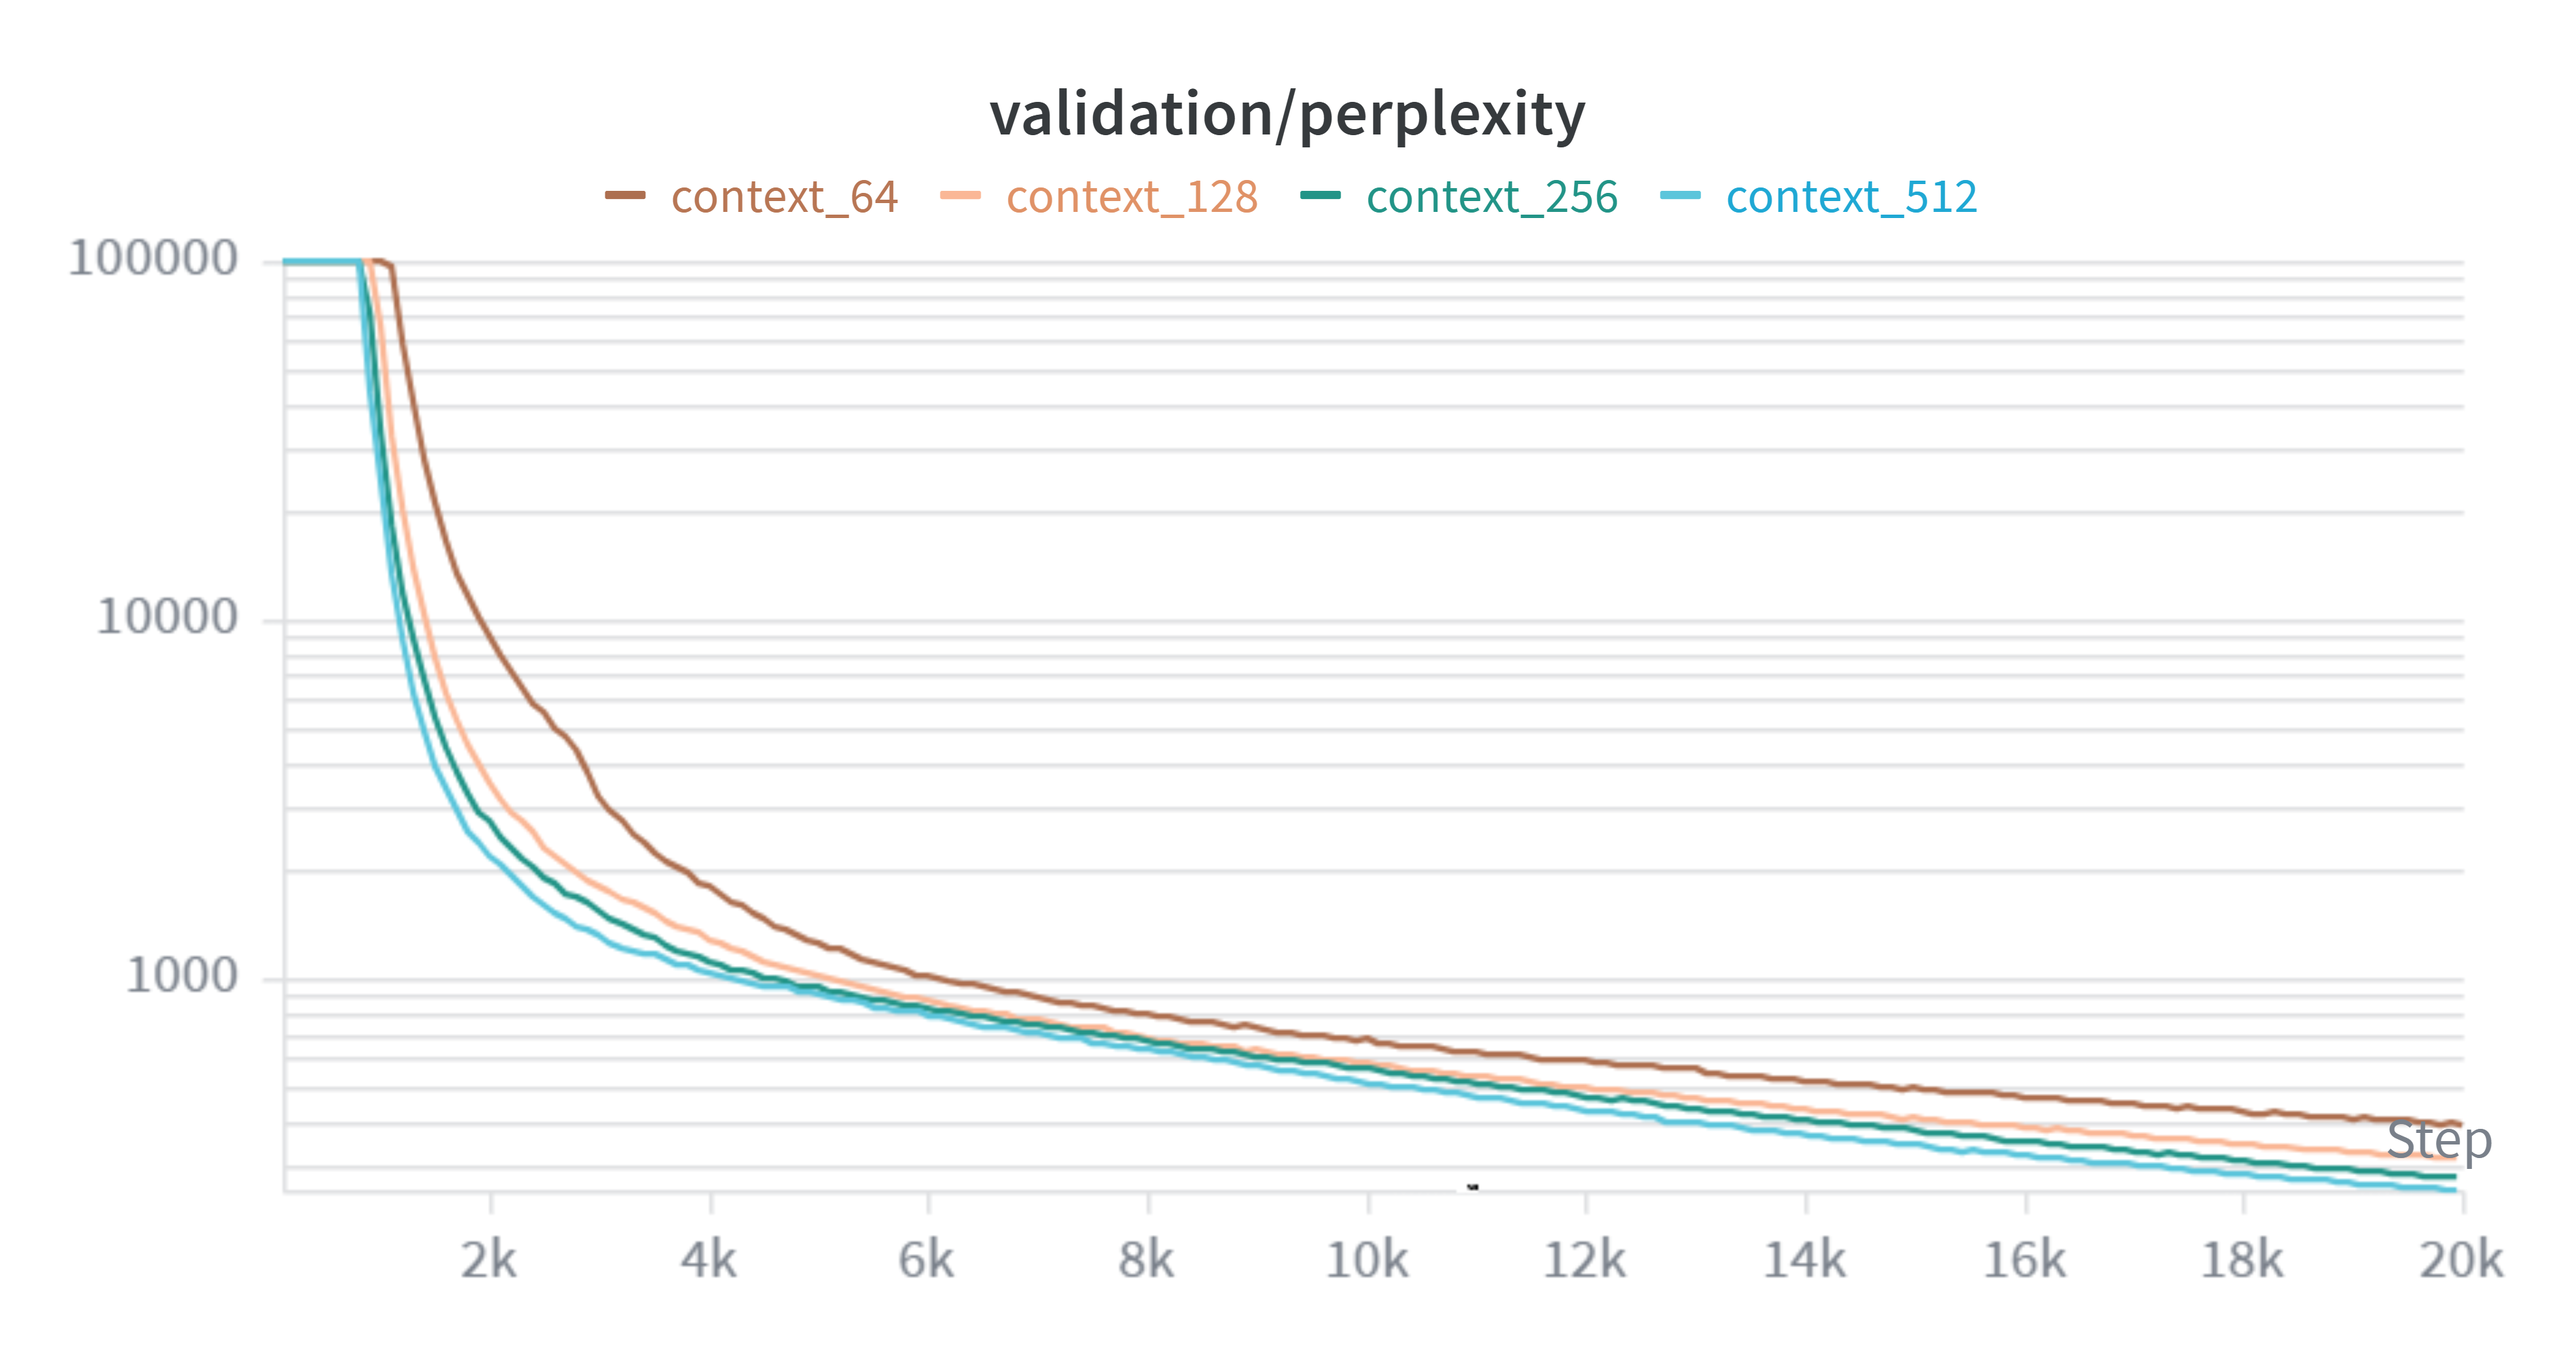
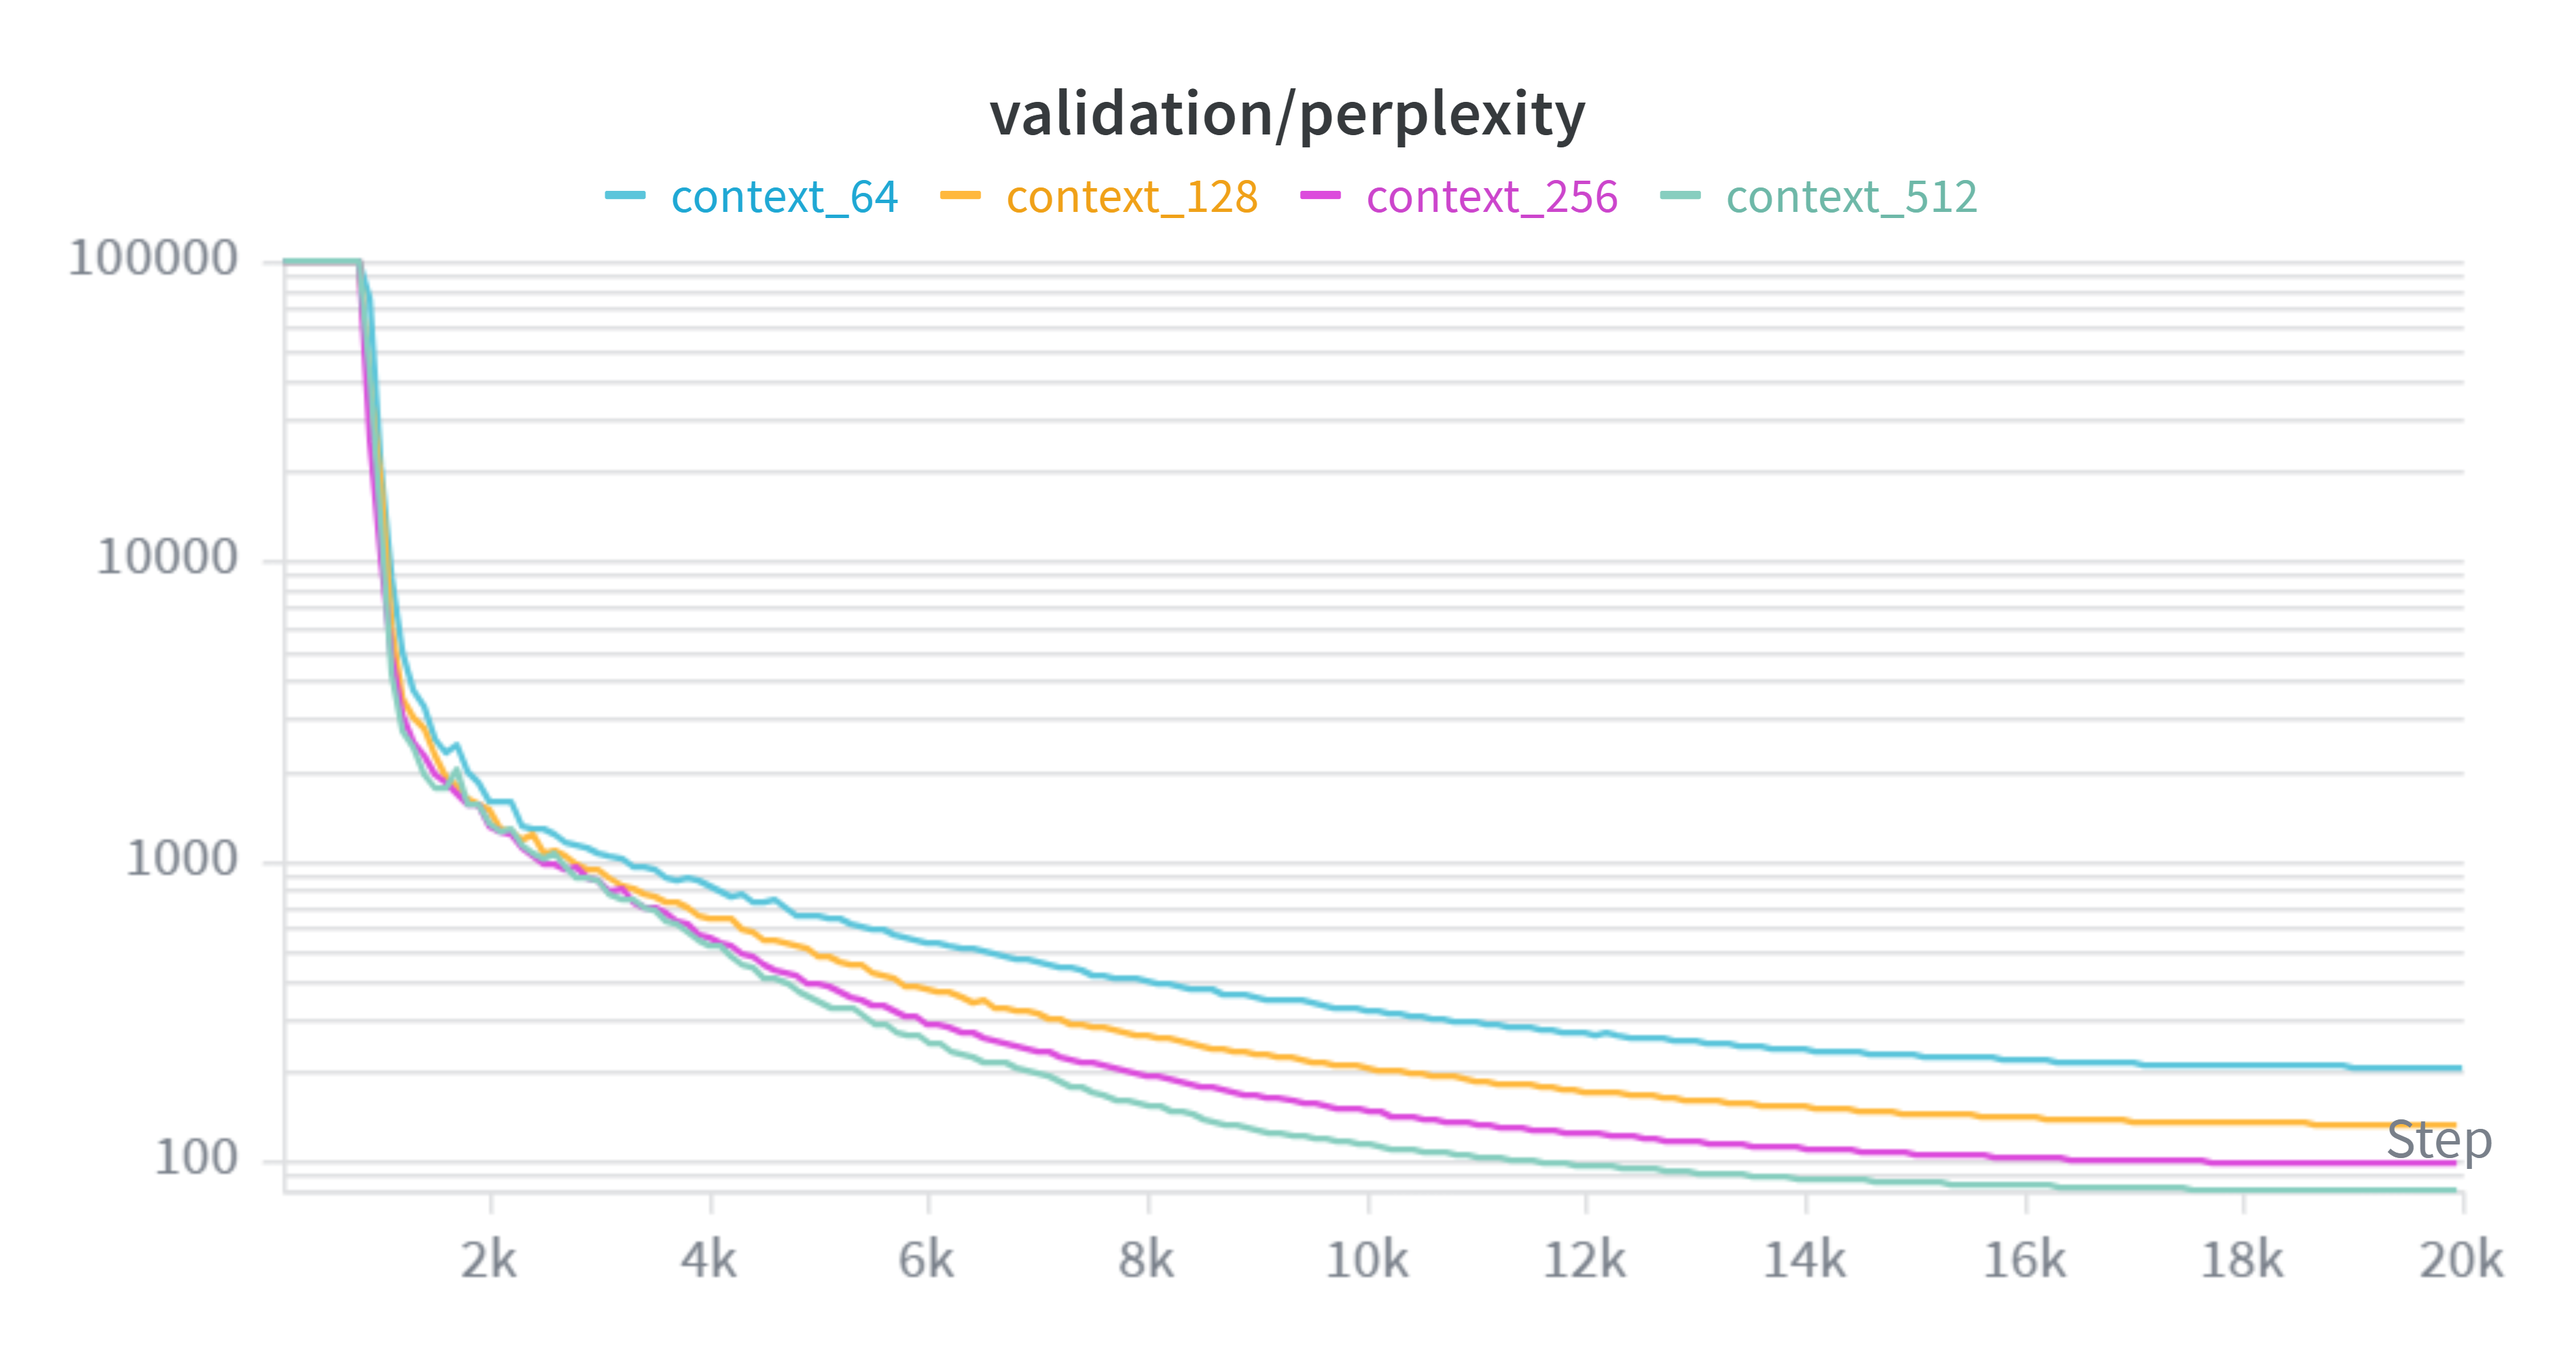
Changed report with new results

diff --git a/REPORT.md b/REPORT.md
@@ -14,22 +14,24 @@ Transformers use self-attention, a mechanism that lets tokens within a certain c
 
 **Gradient Clipping**: In single-epoch testing, the training and validation showed large and seemingly random loss spikes. These were assumed to be outlier batches causing gradients to grow too large, and gradient clipping was implemented to prevent this.
 
+**Learning Rate Schedule**: Also during testing, the model was significantly underperforming for its size. In the case of the 512 context length version, it achieved a test perplexity of ~256. This was hypothesized to be caused by the constant learning rate. Once a learning rate schedule was implemented, test perplexity dropped significantly, reaching values as low as ~78.
+
 **Dataset**: WikiText-103, flattened and tokenized with GPT-2's BPE tokenizer, and then divided into non-overlapping chunks. A training, validation, and testing split were used. Training for gradient updates, validation for diagnostics throughout training, and testing for a final performance number, evaluated after training is complete.
 
-**Ablation Design**: The ablation involved training four configurations, with different context lengths (64, 128, 256, and 512), but the same batch size, optimizer (AdamW), learning rate, and random seed. The configurations were trained for the same number of steps (20,000), as opposed to the same number of epochs. This is because non-overlapping chunks means that the number of chunks in an epoch is approximately `total_tokens/context_length`. This means that one epoch with a high context length gives the model less optimizer steps than a model with a lower context length.
+**Ablation Design**: The ablation involved training four configurations, with different context lengths (64, 128, 256, and 512), but the same batch size, optimizer (AdamW), learning rate schedule, and random seed. The configurations were trained for the same number of steps (20,000), as opposed to the same number of epochs. This is because non-overlapping chunks means that the number of chunks in an epoch is approximately `total_tokens/context_length`. This means that one epoch with a high context length gives the model less optimizer steps than a model with a lower context length.
 
 ## Results
 
 | Context Length | Test Perplexity |
 |---|---|
-| 64  | 390.9 |
-| 128 | 314.1 |
-| 256 | 278.6 |
-| 512 | 256.4 |
+| 64  | 207.1 |
+| 128 | 130.4 |
+| 256 | 96.0 |
+| 512 | 77.8 |
 
 !["validation perplexity graph"](validation_perplexity_graph.png)
 
-Perplexity decreased most when context length was doubled from 64 to 128, causing a ~77 point reduction. Further increasing context length led to diminishing returns. Doubling from 256 to 512 only caused a ~22 point reduction. This data would suggest that the model gets the most useful context from closer tokens, but longer-range context contributes smaller, but not insignificant, gains.
+Perplexity decreased most when context length was doubled from 64 to 128, causing a ~77 point reduction. Further increasing context length led to diminishing returns. Doubling from 256 to 512 only caused a ~18 point reduction. This data would suggest that the model gets the most useful context from closer tokens, but longer-range context contributes smaller, but not insignificant, gains.
 
 All four of the runs were still improving at the 20,000 step cutoff, which confirms that none of the models had finished learning (plateaued), making the ablation a fair comparison.
 

diff --git a/README.md b/README.md
@@ -36,23 +36,22 @@ python train.py --config configs/context_512.yaml
 
 ## Results: Context Length Ablation
 
-Four configurations were trained with varying context length. Architecture, optimization, batch_size, learning rate, and random seed were held constant. The configurations were trained for the same number of steps, as opposed to the same number of epochs. This is because non-overlapping chunks means that the number of chunks in an epoch is approximately `total_tokens/context_length`. This means that one epoch with a high context length gives the model less optimizer steps than with a lower context length.
+Four configurations were trained with varying context length. Architecture, optimization, batch_size, learning rate schedule, and random seed were held constant. The configurations were trained for the same number of steps, as opposed to the same number of epochs. This is because non-overlapping chunks means that the number of chunks in an epoch is approximately `total_tokens/context_length`. This means that one epoch with a high context length gives the model less optimizer steps than with a lower context length.
 
 | Context Length | Test Perplexity |
 |---|---|
-| 64  | 390.9 |
-| 128 | 314.1 |
-| 256 | 278.6 |
-| 512 | 256.4 |
+| 64  | 207.1 |
+| 128 | 130.4 |
+| 256 | 96.0 |
+| 512 | 77.8 |
 
-Perplexity decreased most when context length was doubled from 64 to 128, causing a ~77 point reduction. Further increasing context length led to diminishing returns. Doubling from 256 to 512 only caused a ~22 point reduction. This data would suggest that the model gets the most useful context from closer tokens, but longer-range context contributes smaller, but not insignificant, gains.
+Perplexity decreased most when context length was doubled from 64 to 128, causing a ~77 point reduction. Further increasing context length led to diminishing returns. Doubling from 256 to 512 only caused a ~18 point reduction. This data would suggest that the model gets the most useful context from closer tokens, but longer-range context contributes smaller, but not insignificant, gains.
 
 Full loss and perplexity curves, along with run configs can be found at [https://wandb.ai/jschaller2028-personal/ScribeLM](https://wandb.ai/jschaller2028-personal/ScribeLM).
 
 ## Limitations & Future Work
 
- - No learning rate schedule was used
  - Due to non-overlapping chunks, the 256 and 512 context configurations saw the entire dataset more than once, which could have caused overfitting, but the validation curves showed none through all 20,000 steps
- - Future experiments: learning rate schedule, attention head count ablation, learned positional embeddings, untied embedding weights
+ - Future experiments: attention head count ablation, learned positional embeddings, untied embedding weights
 
 `REPORT.md` contains a full report of the experimental process, and describes a surprising effect of parameter initialization.
